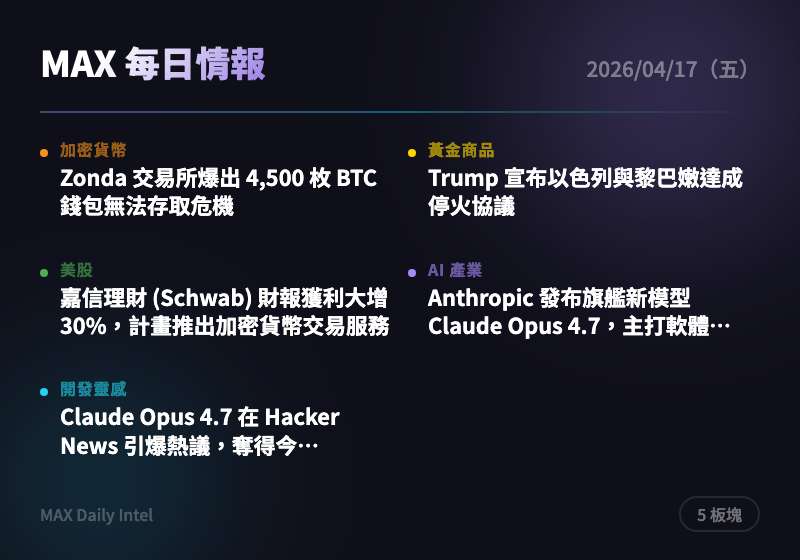
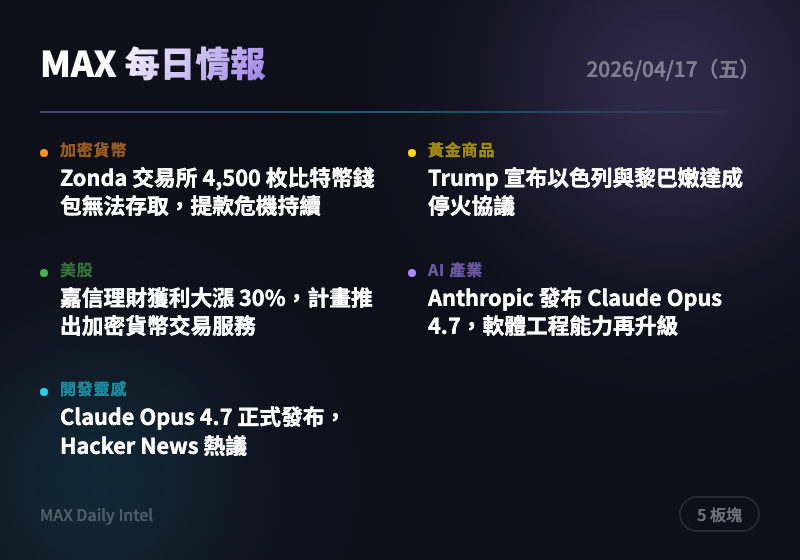
intel: 2026-04-18 每日情報自動生成

diff --git a/docs/2026-04-18.html b/docs/2026-04-18.html
@@ -9,7 +9,7 @@
 <meta name="theme-color" content="#0a0a0a">
 <link rel="apple-touch-icon" href="icon-180.png">
 <link rel="manifest" href="manifest.json">
-<title>MAX 每日情報 — 2026-04-17</title>
+<title>MAX 每日情報 — 2026-04-18</title>
 <style>
   :root {
     --bg: #0a0a0a;
@@ -293,7 +293,7 @@
   <header>
     <div class="logo">MAX Daily Intel</div>
     <h1>每日情報站</h1>
-    <div class="date">2026 年 4 月 17 日（五）</div>
+    <div class="date">2026 年 4 月 18 日（六）</div>
     <div class="stats">
       <span>10 則情報</span>
       <span>7 大板塊</span>
@@ -317,16 +317,16 @@
       <span class="badge">2 則</span>
     </div>
     <div class="news-card">
-      <div class="source">CoinTelegraph</div>
-      <h3><a href="https://cointelegraph.com/news/zonda-crypto-4500-btc-wallet-inaccessible-withdrawal-crisis?utm_source=rss_feed&utm_medium=rss&utm_campaign=rss_partner_inbound" target="_blank" rel="noopener">Zonda 交易所 4,500 枚比特幣錢包無法存取，提款危機持續</a></h3>
-      <div class="summary">波蘭交易所 Zonda (Zonda) 執行長坦承一個持有約 4,500 枚比特幣的錢包私鑰從未被移交，導致用戶資金陷入提款困境。這起事件再度暴露中心化交易所的資產保管風險，規模約達 4 億美元。建議持有 Zonda 資產的用戶立即評估風險並考慮提款。</div>
-      <div class="tags"><span class="tag">加密貨幣</span><span class="tag">交易所風險</span><span class="tag">比特幣</span><span class="tag">資產安全</span></div>
+      <div class="source">The Block</div>
+      <h3><a href="https://www.theblock.co/post/397898/bitcoin-retakes-78000-trump-hormuz-open-ready-business?utm_source=rss&utm_medium=rss" target="_blank" rel="noopener">比特幣重奪 78,000 美元，Trump 宣布荷姆茲海峽「開放通行」</a></h3>
+      <div class="summary">伊朗宣布荷姆茲海峽完全開放後，地緣政治風險急速降溫，比特幣随即突破 78,000 美元創近 10 週新高，帶動整體加密貨幣市值重返 2.7 兆美元以上。此波反彈與油價暴跌、美股創新高同步發生，顯示市場風險偏好全面回升。短線可留意 88,000 美元壓力區是否有效突破。</div>
+      <div class="tags"><span class="tag">比特幣</span><span class="tag">地緣政治</span><span class="tag">伊朗停火</span><span class="tag">加密市場</span></div>
     </div>
     <div class="news-card">
-      <div class="source">CoinTelegraph</div>
-      <h3><a href="https://cointelegraph.com/news/tether-150m-recovery-drift-protocol?utm_source=rss_feed&utm_medium=rss&utm_campaign=rss_partner_inbound" target="_blank" rel="noopener">Tether 宣布為 Drift Protocol 啟動 1.5 億美元復原計畫</a></h3>
-      <div class="summary">Drift Protocol (Drift 協議) 在四月初遭受 2.8 億美元漏洞攻擊後，Tether (泰達) 宣布提供 1.5 億美元用於重啟平台並償還用戶損失。此舉展示了穩定幣巨頭對 DeFi 生態系統的支持意願，對市場信心有一定提振作用。投資者可關注 Drift 重啟後的治理動態與代幣表現。</div>
-      <div class="tags"><span class="tag">DeFi</span><span class="tag">穩定幣</span><span class="tag">資安漏洞</span><span class="tag">加密貨幣</span></div>
+      <div class="source">The Block</div>
+      <h3><a href="https://www.theblock.co/post/397902/french-minister-urges-banks-to-expand-euro-stablecoins-tokenized-deposits-report?utm_source=rss&utm_medium=rss" target="_blank" rel="noopener">法國財長力推歐元穩定幣與代幣化存款，歐洲政策風向轉變</a></h3>
+      <div class="summary">法國財政部長公開呼籲歐洲銀行擴大發行歐元穩定幣與代幣化存款，此舉標誌歐洲官方從過去批評私人穩定幣轉向積極支持。背景是美元掛鉤穩定幣供應量已突破 3,000 億美元，歐洲擔憂美元數位主導地位威脅歐元主權。長線利多歐元區 DeFi 生態與合規穩定幣賽道。</div>
+      <div class="tags"><span class="tag">穩定幣</span><span class="tag">歐元</span><span class="tag">監管政策</span><span class="tag">歐洲</span></div>
     </div>
   </section>
 
@@ -338,15 +338,15 @@
     </div>
     <div class="news-card">
       <div class="source">ForexLive</div>
-      <h3><a href="https://investinglive.com/news/trump-announces-isreal-and-lebanon-ceasefire-20260416/" target="_blank" rel="noopener">Trump 宣布以色列與黎巴嫩達成停火協議</a></h3>
-      <div class="summary">美國總統 Trump (川普) 宣布以色列與黎巴嫩將正式展開 10 天停火，雙方領導人已達成共識。中東緊張局勢降溫通常對黃金避險需求形成壓力，短期內金價可能因風險胃納回升而承壓。交易者應密切觀察停火落實情況，若談判破裂黃金將迅速反彈。</div>
-      <div class="tags"><span class="tag">地緣政治</span><span class="tag">中東局勢</span><span class="tag">避險資產</span><span class="tag">黃金</span></div>
+      <h3><a href="https://investinglive.com/news/iran-foreign-minister-the-strait-of-hormuz-is-completely-open-20260417/" target="_blank" rel="noopener">伊朗外交部長宣布荷姆茲海峽完全開放，油價急跌</a></h3>
+      <div class="summary">伊朗外長 Araghchi (阿拉格希) 在社群媒體正式宣布荷姆茲海峽在停火期間對所有商業船隻完全開放，結束長達七週的封鎖緊張態勢，油價隨即急跌逾 10%。此消息對黃金構成短線壓力——地緣風險溢價縮小、避險需求下降。若美伊協議正式簽署，能源通膨預期將進一步回落，利率預期也可能隨之調整。</div>
+      <div class="tags"><span class="tag">地緣政治</span><span class="tag">油價</span><span class="tag">伊朗</span><span class="tag">荷姆茲海峽</span></div>
     </div>
     <div class="news-card">
       <div class="source">ForexLive</div>
-      <h3><a href="https://investinglive.com/news/us-initial-jobless-claims-207k-vs-215k-expected-20260416/" target="_blank" rel="noopener">美國初領失業救濟金人數 20.7 萬，優於預期</a></h3>
-      <div class="summary">美國上週初領失業救濟金人數為 20.7 萬，遠低於預期的 21.5 萬，顯示就業市場仍具韌性。在中東衝突持續的背景下，一連串正面經濟數據為市場提供支撐，也降低了聯準會短期降息的急迫性。強勁就業數據通常對黃金形成壓制，但地緣政治風險仍是支撐金價的關鍵因素。</div>
-      <div class="tags"><span class="tag">美國經濟</span><span class="tag">就業數據</span><span class="tag">聯準會</span><span class="tag">總體經濟</span></div>
+      <h3><a href="https://investinglive.com/news/us-considers-20-billion-cash-for-uranium-deal-report-20260417/" target="_blank" rel="noopener">美伊談判：美國考慮釋放 200 億美元凍結資金換取伊朗核材料</a></h3>
+      <div class="summary">據 Axios 報導，美伊正就一份三頁協議談判，核心條款為美方解凍 200 億美元伊朗資產，換取伊朗交出高濃縮鈾存量。消息一出，S&P 500 期貨漲幅翻倍，顯示市場對最終協議達成信心大增。若協議落地，油價、通膨預期將同步下修，對聯準會利率路徑及黃金走勢均有重要影響。</div>
+      <div class="tags"><span class="tag">地緣政治</span><span class="tag">伊朗核協議</span><span class="tag">美股</span><span class="tag">油價</span></div>
     </div>
   </section>
 
@@ -367,15 +367,15 @@
     </div>
     <div class="news-card">
       <div class="source">WSJ Markets</div>
-      <h3><a href="https://www.wsj.com/finance/charles-schwab-schw-q1-earnings-5733d051?mod=rss_markets_main" target="_blank" rel="noopener">嘉信理財獲利大漲 30%，計畫推出加密貨幣交易服務</a></h3>
-      <div class="summary">Schwab (嘉信理財) 公布第一季獲利跳升 30%，受惠於市場波動帶動的高交易量，並宣布即將推出加密貨幣交易功能。這是傳統大型券商正式擁抱加密市場的重要里程碑，顯示主流金融機構對數位資產的態度持續轉向。此消息對加密相關概念股與比特幣現貨 ETF 具有正面帶動效應。</div>
-      <div class="tags"><span class="tag">美股財報</span><span class="tag">加密貨幣</span><span class="tag">券商</span><span class="tag">金融科技</span></div>
+      <h3><a href="https://www.wsj.com/health/healthcare/a-unitedhealth-reckoning-still-looms-0f094b9b?mod=rss_markets_main" target="_blank" rel="noopener">UnitedHealth (聯合健康) 醫療保險支付制度改革延後，長期壓力未解</a></h3>
+      <div class="summary">美國政府延後對 Medicare Advantage (醫療保險優先計劃) 支付計算方式的改革，雖然短期內為 UnitedHealth (聯合健康) 解圍，但分析師警告這只是「延後痛苦」而非解決問題。醫療保險板塊長期面臨監管收緊與成本上升的雙重壓力，投資人應留意後續政策時程。</div>
+      <div class="tags"><span class="tag">美股</span><span class="tag">醫療保險</span><span class="tag">監管政策</span><span class="tag">UnitedHealth</span></div>
     </div>
     <div class="news-card">
       <div class="source">WSJ Markets</div>
-      <h3><a href="https://www.wsj.com/finance/banking/bny-profit-rises-on-fee-net-interest-income-growth-0d51a507?mod=rss_markets_main" target="_blank" rel="noopener">紐約梅隆銀行獲利上升，執行長對市場前景審慎樂觀</a></h3>
-      <div class="summary">Bank of New York Mellon (紐約梅隆銀行) 公布第一季獲利成長，執行長表示儘管中東局勢動盪，對經濟與市場前景仍有謹慎樂觀的看法。金融股財報季整體表現優於預期，顯示大型機構在波動環境中仍具獲利能力。投資人可持續關注銀行股財報季的整體趨勢。</div>
-      <div class="tags"><span class="tag">美股財報</span><span class="tag">銀行股</span><span class="tag">金融市場</span><span class="tag">總體經濟</span></div>
+      <h3><a href="https://www.wsj.com/livecoverage/stock-market-today-dow-sp-500-nasdaq-04-17-2026?mod=rss_markets_main" target="_blank" rel="noopener">道瓊急漲、油價重挫，伊朗宣布海峽開放後 S&P 500 再創新高</a></h3>
+      <div class="summary">伊朗宣布荷姆茲海峽開放後，美股全面走強，S&P 500 創下新高，油價同步暴跌逾 10%，市場對美伊和平協議的樂觀預期全面發酵。能源股承壓、科技與消費類股受惠，整體風險偏好顯著回升。投資人可關注後續協議進展是否支撐漲勢延續。</div>
+      <div class="tags"><span class="tag">美股</span><span class="tag">S&P500</span><span class="tag">油價</span><span class="tag">地緣政治</span></div>
     </div>
   </section>
 
@@ -386,16 +386,16 @@
       <span class="badge">2 則</span>
     </div>
     <div class="news-card">
-      <div class="source">The Verge AI</div>
-      <h3><a href="https://www.theverge.com/ai-artificial-intelligence/913184/anthropic-claude-opus-4-7-cybersecurity" target="_blank" rel="noopener">Anthropic 發布 Claude Opus 4.7，軟體工程能力再升級</a></h3>
-      <div class="summary">Anthropic 正式推出迄今最強的通用模型 Claude Opus 4.7，在複雜程式開發任務上較 Opus 4.6 有顯著提升，並強化了圖像分析與指令遵循能力。此次發布同時伴隨外界對「Mythos Preview」神秘預覽版的高度關注，顯示 Anthropic 的模型路線圖仍有更強版本待發。對於 AI 開發者而言，這是值得立即測試的重要更新。</div>
-      <div class="tags"><span class="tag">AI</span><span class="tag">大型語言模型</span><span class="tag">Anthropic</span><span class="tag">開發工具</span></div>
+      <div class="source">TechCrunch AI</div>
+      <h3><a href="https://techcrunch.com/2026/04/17/anthropic-launches-claude-design-a-new-product-for-creating-quick-visuals/" target="_blank" rel="noopener">Anthropic (安索羅普) 推出 Claude Design，讓非設計師也能快速產出視覺稿</a></h3>
+      <div class="summary">Anthropic (安索羅普) 正式推出 Claude Design 產品，目標用戶為創業者、產品經理等沒有設計背景的人，讓他們能更輕鬆地將想法轉化為視覺呈現。此舉同時引發 Figma (菲格馬) 的緊張反應——Anthropic 產品長剛剛辭去 Figma 董事會職務，市場擔憂 AI 大廠將蠶食設計工具 SaaS 市場。</div>
+      <div class="tags"><span class="tag">AI</span><span class="tag">Anthropic</span><span class="tag">設計工具</span><span class="tag">產品發布</span></div>
     </div>
     <div class="news-card">
-      <div class="source">TechCrunch AI</div>
-      <h3><a href="https://techcrunch.com/2026/04/16/runway-ceo-says-ai-could-help-hollywood-make-50-films-instead-of-one-100m-blockbuster/" target="_blank" rel="noopener">Runway 執行長：AI 助攻好萊塢從拍一部大片變成拍 50 部</a></h3>
-      <div class="summary">Runway (跑道) 執行長表示，AI 技術有望讓電影公司以製作一部 1 億美元大製作的成本，拍出 50 部電影，以量取勝提高票房命中率。這一觀點代表了 AI 影視工具商對產業重塑的雄心，也預示著電影製作門檻將大幅降低。內容創作產業的商業模式將因此面臨根本性轉變。</div>
-      <div class="tags"><span class="tag">AI</span><span class="tag">影視產業</span><span class="tag">生成式AI</span><span class="tag">內容創作</span></div>
+      <div class="source">The Verge AI</div>
+      <h3><a href="https://www.theverge.com/podcast/913792/ai-divide-sam-altman-vergecast" target="_blank" rel="noopener">「AI 不可避免」的陷阱：鞋業公司改名 AI 公司股價暴漲七倍</a></h3>
+      <div class="summary">運動鞋品牌 Allbirds (歐步) 宣布轉型為 AI 基礎設施公司並更名為 Newbird AI，股價一度暴漲七倍，成為本週 AI 泡沫的最新縮影。這一現象引發業界對 AI 估值狂熱是否已達頂峰的廣泛討論，投資人需警惕「AI 改名」概念股的炒作風險。</div>
+      <div class="tags"><span class="tag">AI</span><span class="tag">泡沫</span><span class="tag">概念股</span><span class="tag">OpenAI</span></div>
     </div>
   </section>
 
@@ -406,16 +406,16 @@
       <span class="badge">2 則</span>
     </div>
     <div class="news-card">
-      <div class="source">Hacker News Best</div>
-      <h3><a href="https://www.anthropic.com/news/claude-opus-4-7" target="_blank" rel="noopener">Claude Opus 4.7 正式發布，Hacker News 熱議</a></h3>
-      <div class="summary">Claude Opus 4.7 在 Hacker News 上獲得超過 1,336 點與 974 則留言的高度關注，成為近期最熱門的 AI 話題之一。開發者社群對新模型的編程能力提升給予高度評價，同時也有聲音指出與「Mythos」神秘版本的差距。這是本週開發者圈最值得關注的核心事件。</div>
-      <div class="tags"><span class="tag">AI</span><span class="tag">開發者社群</span><span class="tag">大型語言模型</span><span class="tag">Anthropic</span></div>
+      <div class="source">Product Hunt</div>
+      <h3><a href="https://www.producthunt.com/products/canva" target="_blank" rel="noopener">Canva AI 2.0 發布：與個人資料整合的 AI 協作設計平台</a></h3>
+      <div class="summary">Canva (坎瓦) 推出 AI 2.0，強調 AI 能與用戶的個人世界連結並協同創作，進一步模糊設計工具與 AI 助手的界線。在 Anthropic 推出 Claude Design 的同一週，設計工具 AI 化的競爭正全面升溫，非設計師族群將成為各方爭奪的關鍵用戶群。</div>
+      <div class="tags"><span class="tag">設計工具</span><span class="tag">AI</span><span class="tag">Canva</span><span class="tag">產品發布</span></div>
     </div>
     <div class="news-card">
-      <div class="source">Hacker News Best</div>
-      <h3><a href="https://sleepingrobots.com/dreams/stop-using-ollama/" target="_blank" rel="noopener">本地 LLM 生態系統不需要 Ollama？引發開發者論戰</a></h3>
-      <div class="summary">一篇質疑 Ollama (Ollama) 在本地 LLM 生態中必要性的文章在 Hacker News 獲得 593 點熱議，作者認為 Ollama 帶來不必要的複雜度。這場討論反映了本地端 AI 部署工具鏈正在快速演進，開發者對於標準化工具的選擇出現分歧。有意在本地跑模型的開發者值得閱讀此篇評估替代方案。</div>
-      <div class="tags"><span class="tag">本地LLM</span><span class="tag">開發工具</span><span class="tag">開源</span><span class="tag">AI基礎設施</span></div>
+      <div class="source">Product Hunt</div>
+      <h3><a href="https://www.producthunt.com/products/openai" target="_blank" rel="noopener">OpenAI (開放人工智慧) 推出 Codex 2.0，可操控桌面、執行應用程式</a></h3>
+      <div class="summary">OpenAI (開放人工智慧) 大幅升級 Codex，新版本可在用戶桌面執行應用程式、自動化任務、生成圖片並記憶過去操作，被視為對 Claude Code 的正面宣戰。這場 AI 編程助手的軍備競賽正在加速，開發者生態系統的競爭格局將進一步重塑。</div>
+      <div class="tags"><span class="tag">AI編程</span><span class="tag">OpenAI</span><span class="tag">Codex</span><span class="tag">開發工具</span></div>
     </div>
   </section>
 

diff --git a/docs/cards/2026-04-18-card.html b/docs/cards/2026-04-18-card.html
@@ -21,12 +21,12 @@ body{width:400px;height:280px;font-family:'Noto Sans TC',-apple-system,sans-seri
 </style></head><body>
 <div class="bg-mesh"><div class="orb1"></div><div class="orb2"></div></div>
 <div class="content">
-<div class="top-row"><span class="title">MAX 每日情報</span><span class="date">2026/04/17（五）</span></div>
+<div class="top-row"><span class="title">MAX 每日情報</span><span class="date">2026/04/18（六）</span></div>
 <div class="divider"></div>
-<div class="grid"><div class="cell"><div class="dot" style="background:#f7931a"></div><div><div class="label" style="color:#f7931a">加密貨幣</div><div class="headline">Zonda 交易所 4,500 枚比特幣錢包無法存取，提款危機持續</div></div></div>
-<div class="cell"><div class="dot" style="background:#ffd700"></div><div><div class="label" style="color:#ffd700">黃金商品</div><div class="headline">Trump 宣布以色列與黎巴嫩達成停火協議</div></div></div>
-<div class="cell"><div class="dot" style="background:#4caf50"></div><div><div class="label" style="color:#4caf50">美股</div><div class="headline">嘉信理財獲利大漲 30%，計畫推出加密貨幣交易服務</div></div></div>
-<div class="cell"><div class="dot" style="background:#a78bfa"></div><div><div class="label" style="color:#a78bfa">AI 產業</div><div class="headline">Anthropic 發布 Claude Opus 4.7，軟體工程能力再升級</div></div></div>
-<div class="cell"><div class="dot" style="background:#22d3ee"></div><div><div class="label" style="color:#22d3ee">開發靈感</div><div class="headline">Claude Opus 4.7 正式發布，Hacker News 熱議</div></div></div></div>
+<div class="grid"><div class="cell"><div class="dot" style="background:#f7931a"></div><div><div class="label" style="color:#f7931a">加密貨幣</div><div class="headline">比特幣重奪 78,000 美元，Trump 宣布荷姆茲海峽「開放通行」</div></div></div>
+<div class="cell"><div class="dot" style="background:#ffd700"></div><div><div class="label" style="color:#ffd700">黃金商品</div><div class="headline">伊朗外交部長宣布荷姆茲海峽完全開放，油價急跌</div></div></div>
+<div class="cell"><div class="dot" style="background:#4caf50"></div><div><div class="label" style="color:#4caf50">美股</div><div class="headline">UnitedHealth (聯合健康) 醫療保險支付制度改革延後，長期壓力未解</div></div></div>
+<div class="cell"><div class="dot" style="background:#a78bfa"></div><div><div class="label" style="color:#a78bfa">AI 產業</div><div class="headline">Anthropic (安索羅普) 推出 Claude Design，讓非設計…</div></div></div>
+<div class="cell"><div class="dot" style="background:#22d3ee"></div><div><div class="label" style="color:#22d3ee">開發靈感</div><div class="headline">Canva AI 2.0 發布：與個人資料整合的 AI 協作設計平台</div></div></div></div>
 <div class="bottom-row"><span class="url">MAX Daily Intel</span><span class="badge">5 板塊</span></div>
 </div></body></html>

diff --git a/docs/index.html b/docs/index.html
@@ -151,7 +151,8 @@
     <span>&#x1f6e0;&#xfe0f; 開發靈感</span>
   </div>
 
-  <ul class="issue-list">    <li><a class="issue-card" href="2026-04-17.html"><img src="cards/2026-04-17.png" alt="2026-04-17 每日情報摘要" loading="lazy"><div class="info"><span class="date">2026/04/17（五）</span><span class="meta">10 則情報</span></div></a></li>
+  <ul class="issue-list">    <li><a class="issue-card" href="2026-04-18.html"><img src="cards/2026-04-18.png" alt="2026-04-18 每日情報摘要" loading="lazy"><div class="info"><span class="date">2026/04/18（六）</span><span class="meta">10 則情報</span></div></a></li>
+    <li><a class="issue-card" href="2026-04-17.html"><img src="cards/2026-04-17.png" alt="2026-04-17 每日情報摘要" loading="lazy"><div class="info"><span class="date">2026/04/17（五）</span><span class="meta">10 則情報</span></div></a></li>
     <li><a class="issue-card" href="2026-04-16.html"><img src="cards/2026-04-16.png" alt="2026-04-16 每日情報摘要" loading="lazy"><div class="info"><span class="date">2026/04/16（四）</span><span class="meta">10 則情報</span></div></a></li>
     <li><a class="issue-card" href="2026-04-15.html"><img src="cards/2026-04-15.png" alt="2026-04-15 每日情報摘要" loading="lazy"><div class="info"><span class="date">2026/04/15（三）</span><span class="meta">7 則情報</span></div></a></li>
     <li><a class="issue-card" href="2026-04-14.html"><img src="cards/2026-04-14.png" alt="2026-04-14 每日情報摘要" loading="lazy"><div class="info"><span class="date">2026/04/14（二）</span><span class="meta">10 則情報</span></div></a></li>
